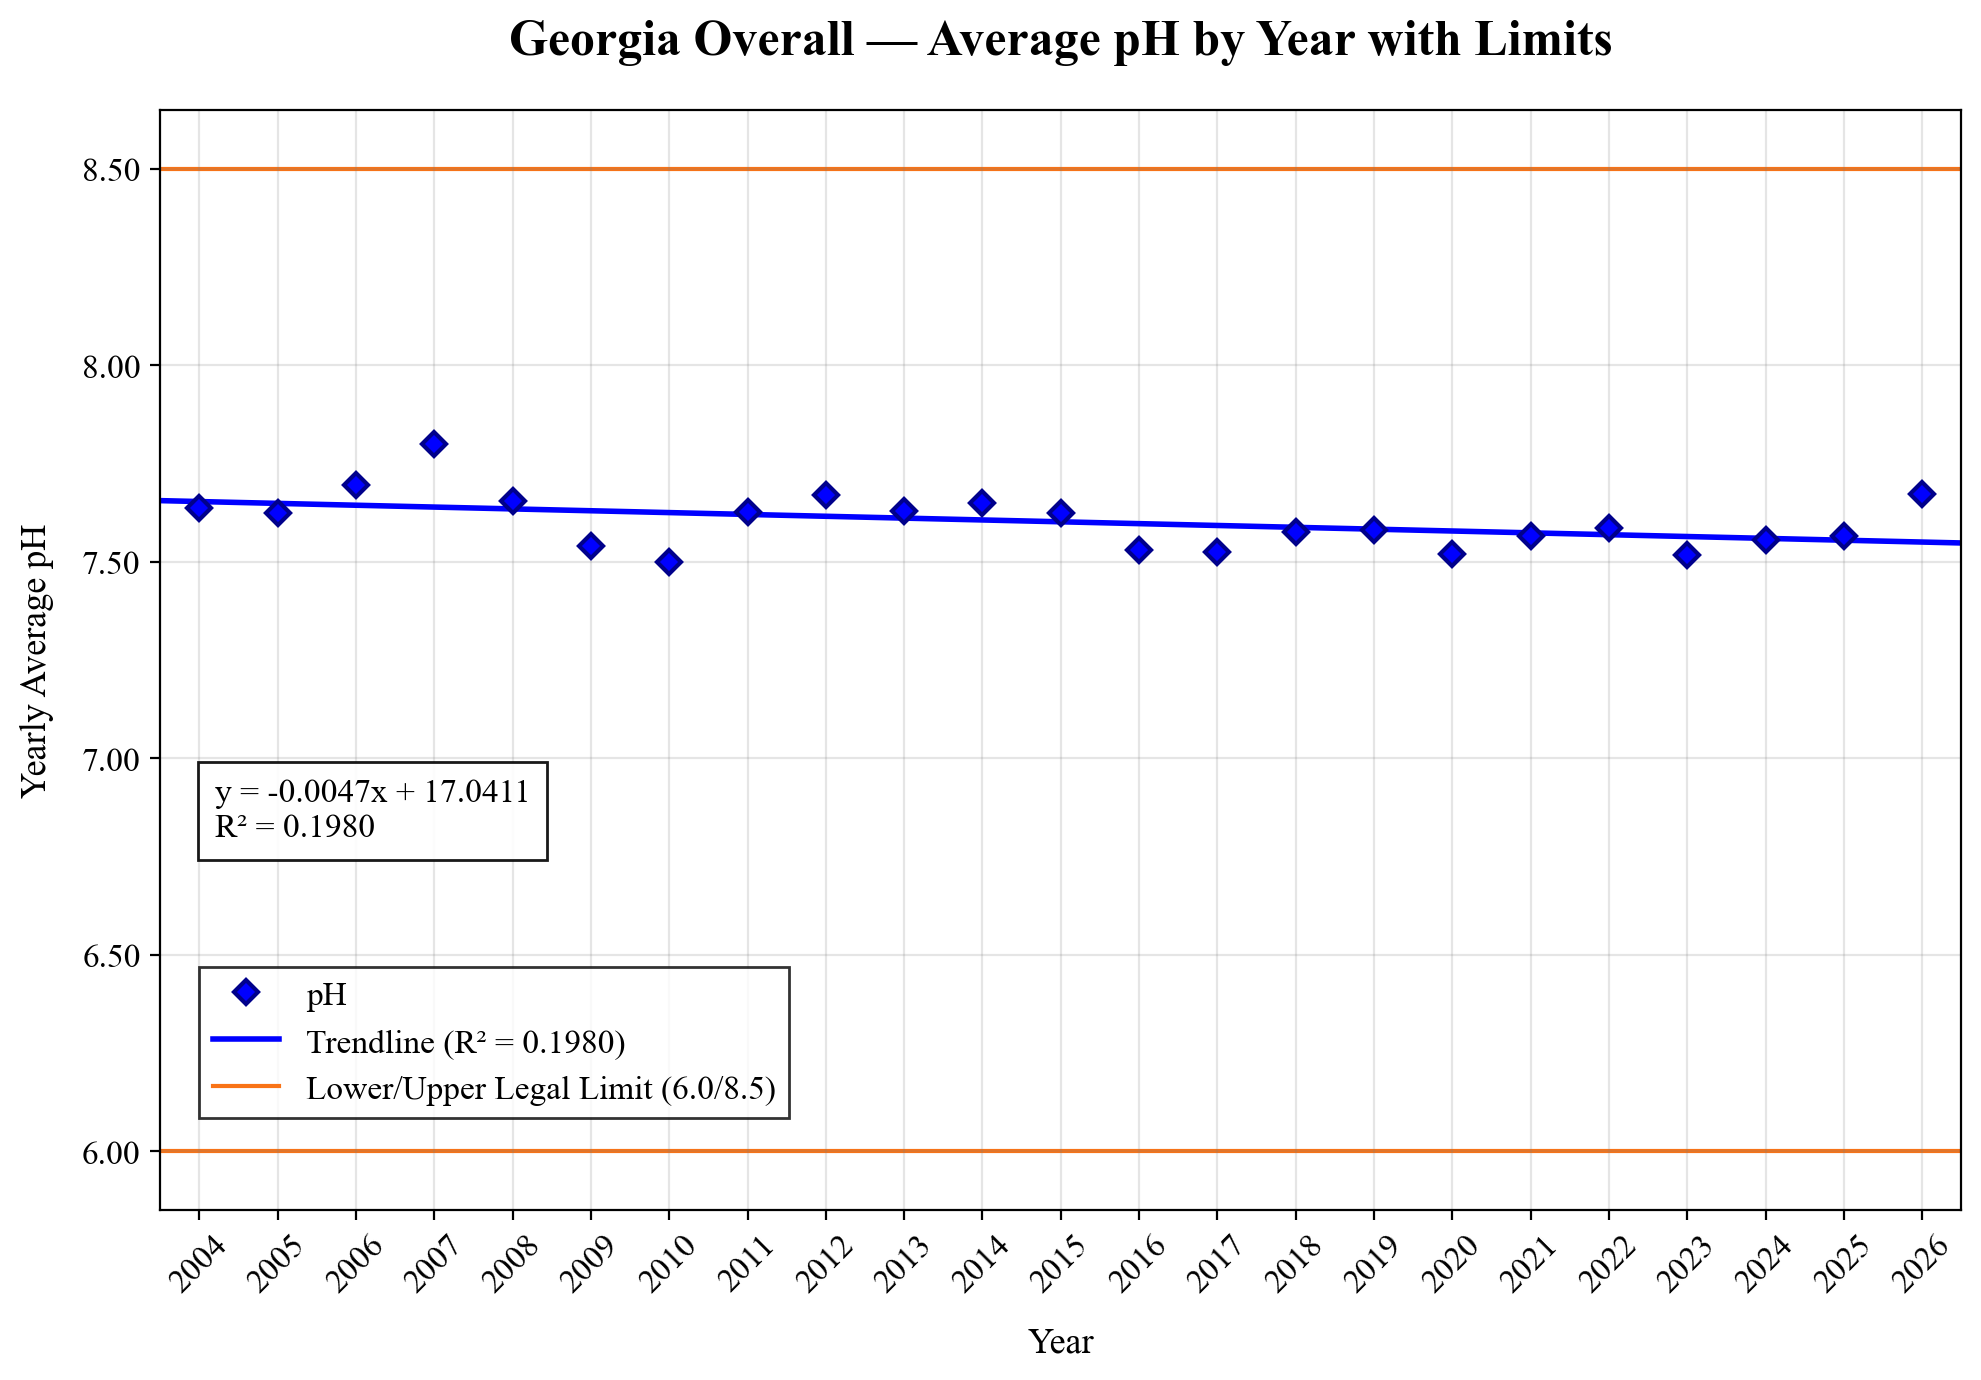
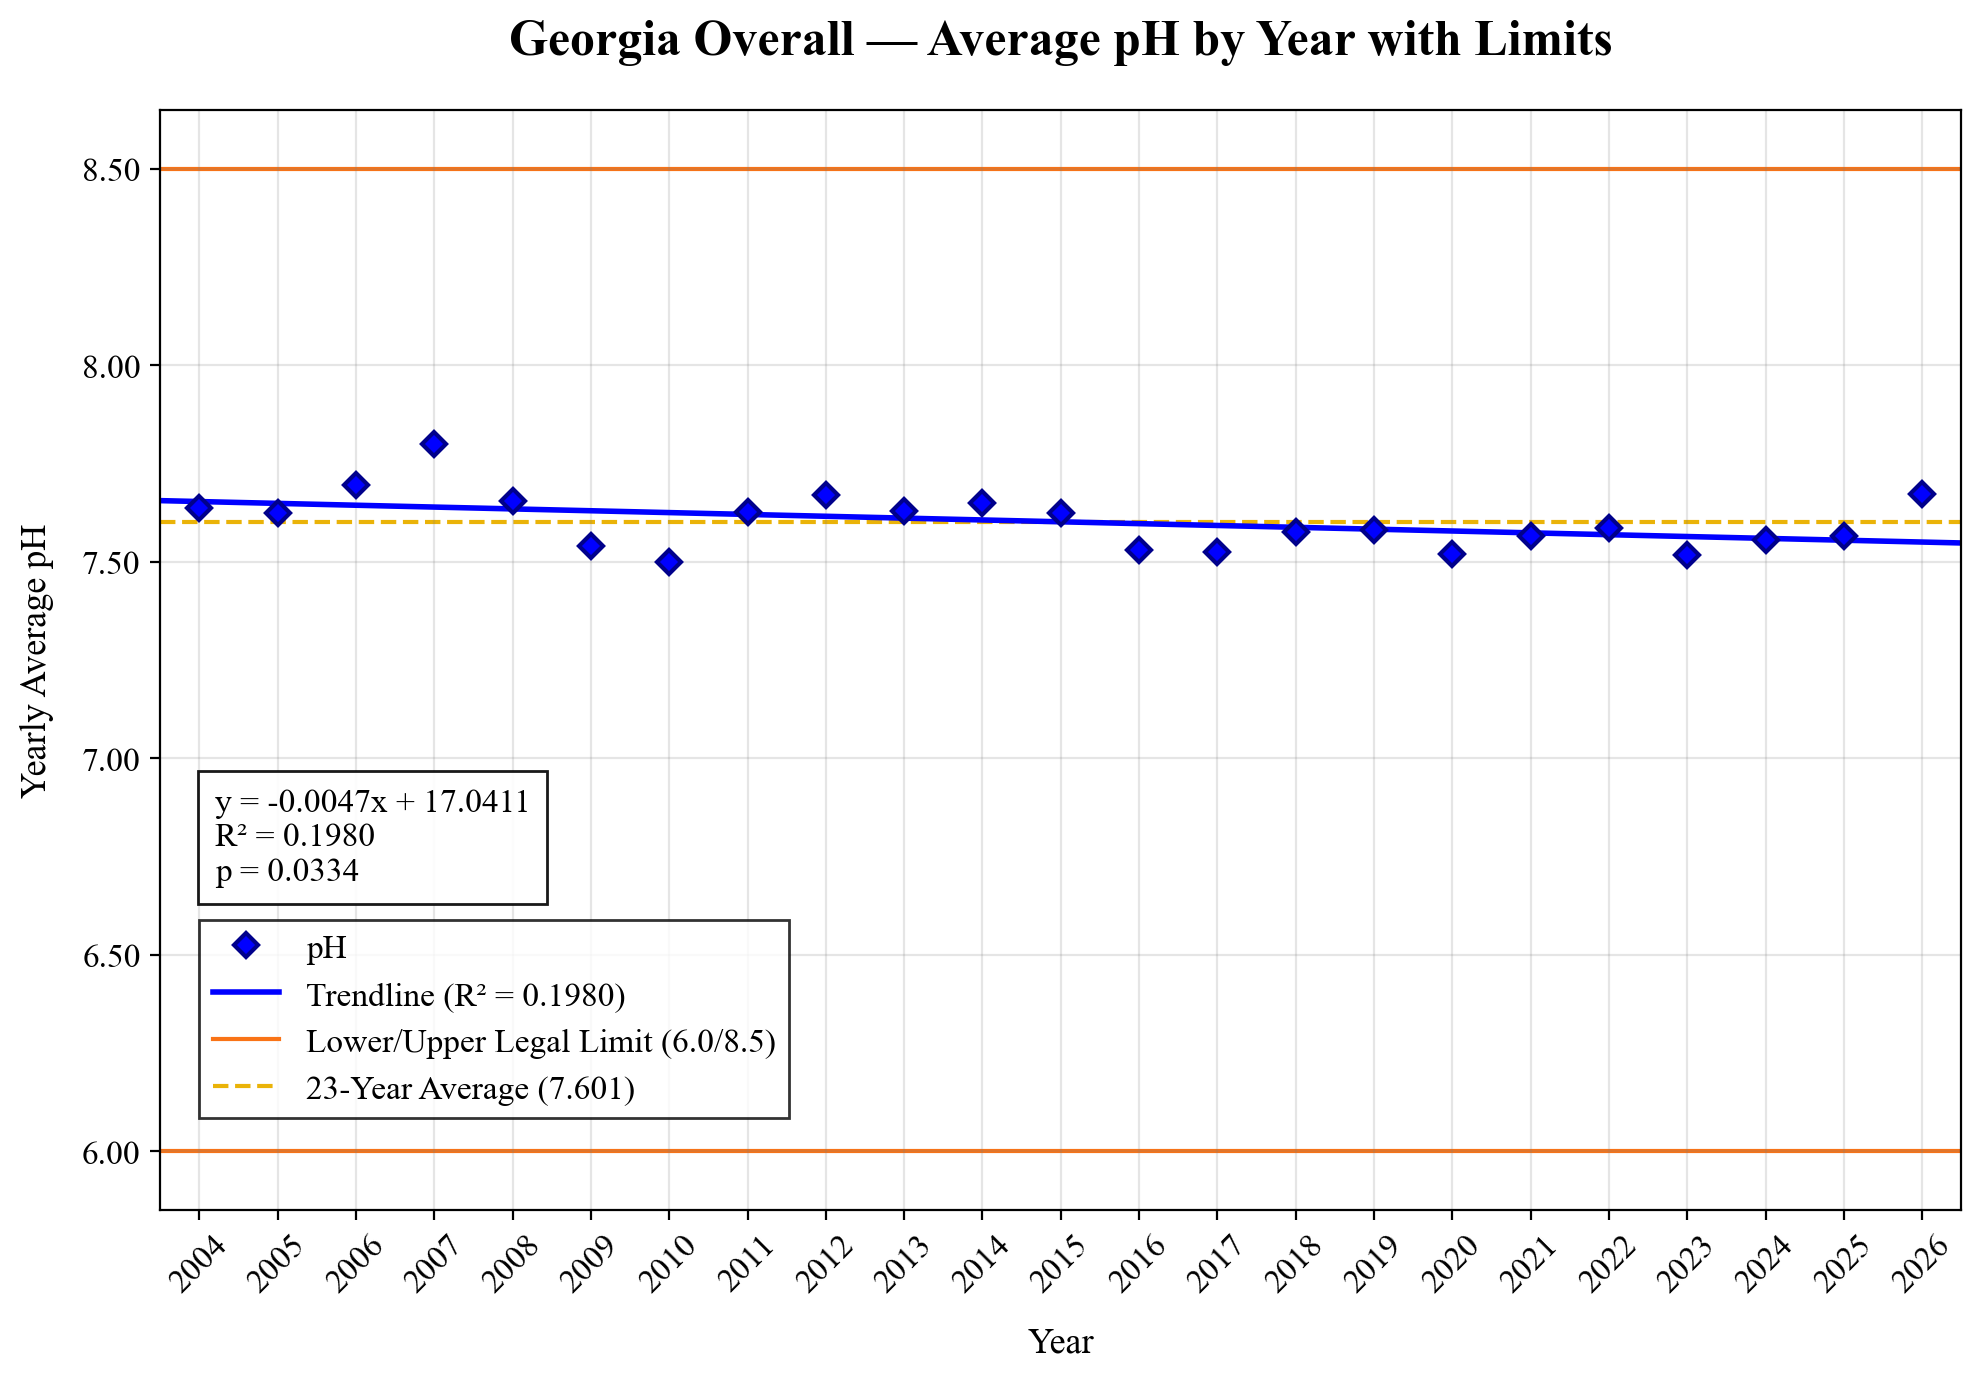
Update Georgia overall trend graph with new layout and p-value

Changed region(s): [[0.0924, 0.5297, 0.4003, 0.8101]]

diff --git a/app.js b/app.js
@@ -313,9 +313,9 @@ function handleMarkerClick(siteName, isState, stats) {
         ? "Statewide aggregated visualization suite."
         : "Station-specific visualization suite.";
         
-    trendGraph.src = `assets/${safeName}_trend.png?v=5`;
-    boxGraph.src = `assets/${safeName}_box.png?v=5`;
-    barGraph.src = `assets/${safeName}_bar.png?v=5`;
+    trendGraph.src = `assets/${safeName}_trend.png?v=6`;
+    boxGraph.src = `assets/${safeName}_box.png?v=6`;
+    barGraph.src = `assets/${safeName}_bar.png?v=6`;
     
     if (stats.equation && stats.r2 && stats.equation !== "N/A") {
         trendStats.innerHTML = `${stats.equation} &nbsp;&nbsp;|&nbsp;&nbsp; ${stats.r2} &nbsp;&nbsp;|&nbsp;&nbsp; ${stats.p}`;

diff --git a/index.html b/index.html
@@ -67,6 +67,6 @@
     <script src="https://unpkg.com/leaflet@1.9.4/dist/leaflet.js" integrity="sha256-20nQCchB9co0qIjJZRGuk2/Z9VM+kNiyxNV1lvTlZBo=" crossorigin=""></script>
     
     <!-- App Logic -->
-    <script src="app.js?v=18"></script>
+    <script src="app.js?v=19"></script>
 </body>
 </html>
